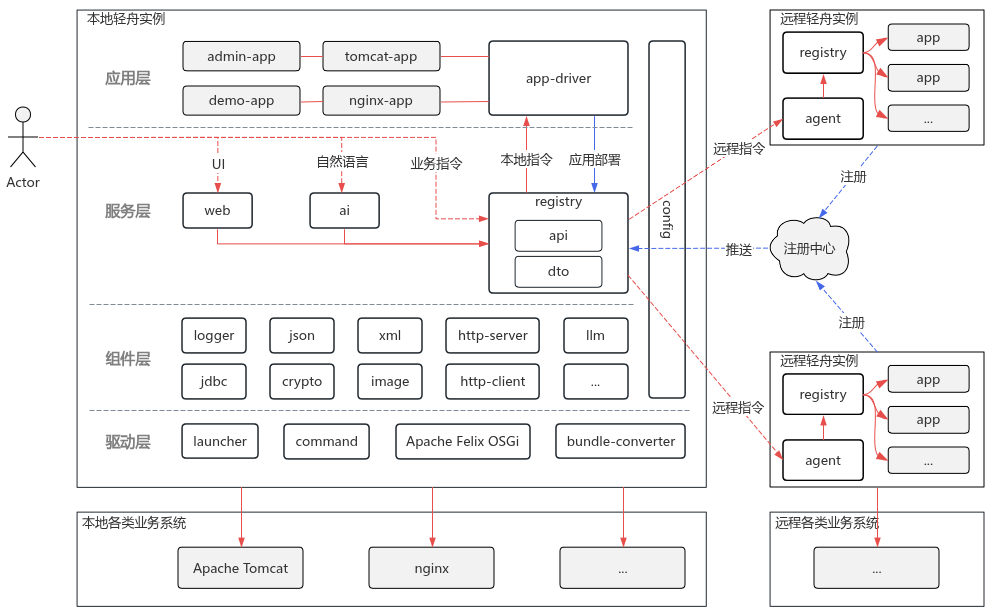
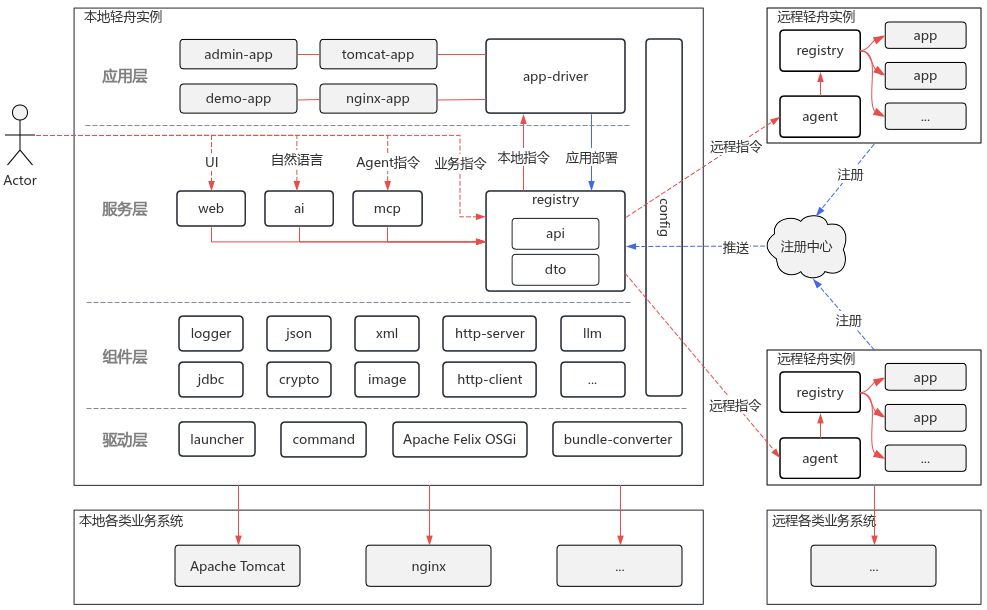
支持 MCP

diff --git a/modules/qingzhou-mcp/src/main/java/qingzhou/mcp/McpServer.java b/modules/qingzhou-mcp/src/main/java/qingzhou/mcp/McpServer.java
@@ -1,0 +1,160 @@
+package qingzhou.mcp;
+
+import java.nio.charset.StandardCharsets;
+import java.util.*;
+import java.util.concurrent.ConcurrentHashMap;
+
+import org.osgi.service.component.annotations.*;
+import qingzhou.ai.Converter;
+import qingzhou.ai.SystemAiTool;
+import qingzhou.http.server.HttpHandler;
+import qingzhou.http.server.HttpRequest;
+import qingzhou.http.server.HttpResponse;
+import qingzhou.json.Json;
+import qingzhou.llm.Parameter;
+import qingzhou.llm.Tool;
+import qingzhou.logger.Logger;
+
+@Component(property = HttpHandler.HANDLE_PATH + "=")
+public class McpServer implements HttpHandler {
+    @Reference
+    private Json json;
+
+    @Reference
+    private Logger logger;
+
+    private final Map<SystemAiTool, Map<String, Object>> systemAiTools = new ConcurrentHashMap<>();
+    private Map<String, Object> initializeData;
+
+    @Activate
+    public void init() {
+        initializeData = new HashMap<>();
+
+        Map<String, Object> serverInfo = new HashMap<>();
+        serverInfo.put("name", "qingzhou-mcp-server");
+        serverInfo.put("version", "1.0.0");
+
+        Map<String, Object> capabilities = new HashMap<>();
+        Map<String, Object> toolsCapability = new HashMap<>();
+        toolsCapability.put("listChanged", false);
+        capabilities.put("tools", toolsCapability);
+
+        initializeData.put("protocolVersion", "2024-11-05");
+        initializeData.put("serverInfo", serverInfo);
+        initializeData.put("capabilities", capabilities);
+    }
+
+    @Reference(policy = ReferencePolicy.DYNAMIC, cardinality = ReferenceCardinality.MULTIPLE)
+    public void bindSystemAiTool(SystemAiTool tool, Map<String, Object> properties) {
+        systemAiTools.put(tool, properties);
+    }
+
+    // OSGI 框架根据名称规则自动识别调用此方法或在子类的 @Reference 中指定
+    public void unbindSystemAiTool(SystemAiTool tool) {
+        systemAiTools.remove(tool);
+    }
+
+    @Override
+    public void handle(HttpRequest httpRequest, HttpResponse httpResponse) throws Exception {
+        // 解析JSON请求
+        String body = new String(httpRequest.getBody(), StandardCharsets.UTF_8);
+        Map<String, Object> requestMap = json.fromJson(body, HashMap.class);
+
+        // 响应对象
+        Map<String, Object> result = new HashMap<>();
+        result.put("jsonrpc", "2.0");
+        result.put("id", requestMap.get("id"));
+        Map<String, Object> resultData = new HashMap<>();
+        result.put("result", resultData);
+
+        String requestMethod = (String) requestMap.get("method");
+        if ("initialize".equals(requestMethod)) {
+            resultData.putAll(initializeData);
+        } else if ("tools/list".equals(requestMethod)) {
+            resultData.put("tools", tools());
+        } else if ("tools/call".equals(requestMethod)) {
+            resultData.putAll(call(requestMap.get("params")));
+        }
+
+        // 响应
+        httpResponse.contentTypeJsonUtf8()
+                .sendFinish(json.toJson(result));
+    }
+
+    private Object tools() {
+        List<Map<String, Object>> tools = new ArrayList<>();
+
+        Collection<Tool> llmTools = Converter.convertSystemAiTool(systemAiTools);
+        llmTools.forEach(tool -> {
+            Map<String, Object> toolMap = new HashMap<>();
+            toolMap.put("name", tool.name());
+            toolMap.put("description", tool.description());
+
+            List<Map<String, Object>> toolProperties = new ArrayList<>();
+            List<String> requiredParameters = new ArrayList<>();
+            Parameter[] parameters = tool.parameters();
+            if (parameters != null) {
+                for (Parameter parameter : parameters) {
+                    Map<String, Object> parameterMap = new HashMap<>();
+                    Map<String, Object> textParam = new HashMap<>();
+                    textParam.put("type", "string");
+                    textParam.put("description", parameter.description());
+                    parameterMap.put(parameter.name(), textParam);
+                    toolProperties.add(parameterMap);
+
+                    if (parameter.required()) {
+                        requiredParameters.add(parameter.name());
+                    }
+                }
+            }
+
+            Map<String, Object> toolInputSchema = new HashMap<>();
+            toolInputSchema.put("type", "object");
+            toolInputSchema.put("properties", toolProperties);
+            toolInputSchema.put("required", requiredParameters);
+            toolMap.put("inputSchema", toolInputSchema);
+
+            tools.add(toolMap);
+        });
+
+        return tools;
+    }
+
+    private Map<String, Object> call(Object requestParams) {
+        Map<String, Object> params = (Map<String, Object>) requestParams;
+        String toolName = (String) params.get("name");
+        Map<String, Object> arguments = (Map<String, Object>) params.get("arguments");
+
+        boolean isError = true;
+        String invokeResult = null;
+        try {
+            boolean found = false;
+            Collection<Tool> llmTools = Converter.convertSystemAiTool(systemAiTools);
+            for (Tool tool : llmTools) {
+                if (tool.name().equals(toolName)) {
+                    invokeResult = tool.invoke(arguments);
+                    isError = false;
+                    found = true;
+                    break;
+                }
+            }
+            if (!found) {
+                invokeResult = "Not Found Tool";
+            }
+        } catch (Throwable e) {
+            invokeResult = e.getMessage();
+            logger.error(e.getMessage(), e);
+        }
+
+        List<Map<String, Object>> contentList = new ArrayList<>();
+        Map<String, Object> contentItem = new HashMap<>();
+        contentItem.put("type", "text");
+        contentItem.put("text", invokeResult);
+        contentList.add(contentItem);
+
+        Map<String, Object> resultData = new HashMap<>();
+        resultData.put("content", contentList);
+        resultData.put("isError", isError);
+        return resultData;
+    }
+}

diff --git a/components/qingzhou-llm/src/main/java/qingzhou/llm/Parameter.java b/components/qingzhou-llm/src/main/java/qingzhou/llm/Parameter.java
@@ -7,10 +7,7 @@ public interface Parameter {
 
     boolean required();
 
-    String[] enumValues();
-
-    static Parameter of(String name, String description,
-                        boolean required, String[] enumValues) {
+    static Parameter of(String name, String description, boolean required) {
         return new Parameter() {
             @Override
             public String name() {
@@ -26,15 +23,6 @@ public interface Parameter {
             public boolean required() {
                 return required;
             }
-
-            @Override
-            public String[] enumValues() {
-                return enumValues;
-            }
         };
-    }
-
-    static Parameter of(String name, String description, boolean required) {
-        return of(name, description, required, null);
     }
 }

diff --git a/components/qingzhou-http-server/src/main/java/qingzhou/http/impl/HttpServerImpl.java b/components/qingzhou-http-server/src/main/java/qingzhou/http/impl/HttpServerImpl.java
@@ -190,12 +190,6 @@ public class HttpServerImpl implements HttpServer {
 
     @Override
     public void unregisterHttpHandler(HttpHandler httpHandler) {
-        for (Map.Entry<String, HttpHandler> entry : handlerMap.entrySet()) {
-            if (entry.getValue().equals(httpHandler)) {
-                String key = entry.getKey();
-                handlerMap.remove(key);
-                break;
-            }
-        }
+        removeHttpHandler(httpHandler);
     }
 }

diff --git a/components/qingzhou-llm/src/main/java/qingzhou/llm/impl/Converter.java b/components/qingzhou-llm/src/main/java/qingzhou/llm/impl/Converter.java
@@ -1,6 +1,5 @@
 package qingzhou.llm.impl;
 
-import java.util.Arrays;
 import java.util.Collection;
 import java.util.Collections;
 import java.util.stream.Collectors;
@@ -49,11 +48,6 @@ class Converter {
         if (parameters != null) {
             for (Parameter parameter : parameters) {
                 functionTool.paramAdd(parameter.name(), String.class, parameter.required(), parameter.description(), null, null);
-                String[] list = parameter.enumValues();
-                if (list != null && list.length != 0) {
-                    String enumValues = Arrays.toString(list);
-                    functionTool.description(functionTool.description() + " Optional values: " + enumValues + ", you can only choose one of these values as input.");
-                }
             }
         }
         return functionTool;

diff --git a/modules/qingzhou-registry/src/main/java/qingzhou/registry/ai/InvokeActionTool.java b/modules/qingzhou-registry/src/main/java/qingzhou/registry/ai/InvokeActionTool.java
@@ -61,8 +61,8 @@ public class InvokeActionTool {
             Hashtable<String, String> properties = (Hashtable<String, String>) sharedProperties.clone();
             properties.put(AiTool.TOOL_NAME, InvokeActionTool.class.getSimpleName() + "_" + invokedActionCode);
             properties.put(AiTool.TOOL_DESCRIPTION, toolDescription);
-            ServiceRegistration<SystemAiTool> serviceRegistration = bundleContext.registerService(SystemAiTool.class, toolArgs -> invokeActionTool(invokedActionCode, toolArgs), properties);
-            registrations.add(serviceRegistration);
+            SystemAiTool systemAiTool = toolArgs -> InvokeActionTool.this.invokeActionTool(invokedActionCode, toolArgs);
+            registrations.add(bundleContext.registerService(SystemAiTool.class, systemAiTool, properties));
         });
     }
 

diff --git a/modules/qingzhou-ai/src/main/java/qingzhou/ai/impl/AiChat.java b/modules/qingzhou-ai/src/main/java/qingzhou/ai/impl/AiChat.java
@@ -11,6 +11,7 @@ import java.util.concurrent.ConcurrentHashMap;
 import java.util.stream.Collectors;
 
 import org.osgi.service.component.annotations.*;
+import qingzhou.ai.Converter;
 import qingzhou.ai.SystemAiTool;
 import qingzhou.http.server.HttpHandler;
 import qingzhou.http.server.HttpRequest;

diff --git a/modules/qingzhou-ai/src/main/java/qingzhou/ai/impl/AiEquip.java b/modules/qingzhou-ai/src/main/java/qingzhou/ai/impl/AiEquip.java
@@ -12,6 +12,7 @@ import org.osgi.service.component.annotations.Reference;
 import org.osgi.service.component.annotations.ReferenceCardinality;
 import org.osgi.service.component.annotations.ReferencePolicy;
 import qingzhou.ai.AiSkill;
+import qingzhou.ai.Converter;
 import qingzhou.api.Constants;
 import qingzhou.dto.I18nService;
 import qingzhou.http.server.HttpHandler;